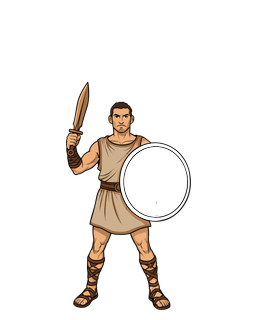
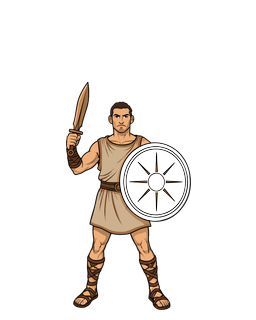
assets+web: accents CUITES par joueur — guerrier J1 rouge (retours Erik 20/09) — (1) import_svg : percement des détails sombres dans le calque accent (lum<140, convention painter — l'accent teinté au-dessus de la base ne masque plus les rayons ; G2 révisé : trou illégitime seulement sur champ clair 

Changed region(s): [[0.4688, 0.4375, 0.75, 0.6875], [0.6562, 0.4688, 0.7188, 0.5312], [0.5, 0.4688, 0.5625, 0.5312]]

diff --git a/apps/web/src/lib/render/textures.ts b/apps/web/src/lib/render/textures.ts
@@ -45,6 +45,10 @@ export interface GameTextures {
   /** Clé = id type d'unité des données JSON (unite_guerrier…) + variantes
    *  barbares `barbare_<type>` (Phase 7d, R-95). */
   units: Record<string, EntityTexture>;
+  /** Variantes CUITES par propriétaire (import_svg : couleurs d'accent cuites
+   *  dans le PNG, pas de calque accent à teinter) — clé `<type>@<owner>`
+   *  (ex. `guerrier@p1`). Décision Erik 20/09. */
+  cuites: Record<string, EntityTexture>;
   cities: { settlement: EntityTexture; capital: EntityTexture };
   /** R-96 (Phase 7d) : village barbare (tente/camp). */
   villageBarbare: EntityTexture;
@@ -603,6 +607,7 @@ export function createTextures(renderer: Renderer): GameTextures {
 
   return {
     tiles,
+    cuites: {},
     units: {
       ...units,
       // R-95 (Phase 7d) : variantes barbares — accent gris-brun au rendu
@@ -721,7 +726,7 @@ export async function loadTextures(renderer: Renderer): Promise<GameTextures> {
   const resourceIds = [...Object.keys(RESOURCES).sort(), RESOURCE_UNKNOWN];
   // Phase 7d (R-95) : variantes barbares (accent gris-brun au rendu).
   const barbareIds = ['guerrier', 'archer'];
-  const [tiles, unitesReelles, barbareUnits, settlement, capital, villageBarbare, hutte, artefactTextures, colonFondation, foodIcon, productionIcon, commerceIcon, goldIcon, scienceIcon, resourceIcons] = await Promise.all([
+  const [tiles, unitesReelles, barbareUnits, settlement, capital, villageBarbare, hutte, artefactTextures, colonFondation, guerrierJ1, foodIcon, productionIcon, commerceIcon, goldIcon, scienceIcon, resourceIcons] = await Promise.all([
     Promise.all(tileIds.map((id) => texOrFallback(TILE_ASSETS[id], fallback.tiles[id]).then((t) => [id, t] as const))),
     // PILE-AFFICHÉE (archer invisible) : chargement OPTIONNEL de l'art de
     // TOUS les types du moteur — un 404 par type sans planche, puis résolu
@@ -742,6 +747,9 @@ export async function loadTextures(renderer: Renderer): Promise<GameTextures> {
     entityOrFallback('hutte', fallback.hutte),
     Promise.all(ARTEFACT_IDS.map((id) => entityOrFallback(`artefact_${id}`, fallback.artefacts[id]!).then((t) => [id, t] as const))),
     optionalEntity('unite_colonFondation'),
+    // Variante CUITE Joueur 1 (décision Erik 20/09) : le guerrier importé
+    // porte son rouge cuit — rendu SANS teinte d'accent (GameCanvas).
+    optionalEntity('unite_guerrier_j1'),
     optionalIcon('icone_nourriture'),
     optionalIcon('icone_production'),
     optionalIcon('icone_commerce'),
@@ -766,9 +774,15 @@ export async function loadTextures(renderer: Renderer): Promise<GameTextures> {
     if (!unitsFinales[id]) unitsFinales[id] = unitsFinales.guerrier!;
   }
 
+  // Variantes cuites par propriétaire (cf. interface) : la clé dit quel
+  // (type, propriétaire) affiche le sprite cuit SANS teinte.
+  const cuites: Record<string, EntityTexture> = {};
+  if (guerrierJ1) cuites['guerrier@p1'] = guerrierJ1;
+
   return {
     tiles: Object.fromEntries(tiles) as Record<TerrainId, Texture>,
     units: { ...unitsFinales, ...Object.fromEntries(barbareUnits) },
+    cuites,
     cities: { settlement, capital },
     villageBarbare,
     hutte,

diff --git a/apps/web/src/lib/render/GameCanvas.svelte b/apps/web/src/lib/render/GameCanvas.svelte
@@ -754,17 +754,30 @@
         : textures!.units[type];
     if (!tex) return c; // type d'unité sans placeholder (ne devrait pas arriver en v1)
     const color = playerColor(owner);
-    const base = new Sprite(tex.base);
-    base.label = 'base';
-    base.anchor.set(0.5, 1);
-    base.scale.set(0.5);
-    base.y = 10;
-    const accent = new Sprite(tex.accent);
-    accent.label = 'accent';
-    accent.anchor.set(0.5, 1);
-    accent.scale.set(0.5);
-    accent.y = 10;
-    accent.tint = color;
+    // Variante CUITE par propriétaire (décision Erik 20/09 : ex. guerrier@p1,
+    // rouge cuit dans le PNG par import_svg) — sprite unique SANS teinte.
+    const cuite = textures!.cuites?.[`${type}@${owner}`];
+    let base: Sprite;
+    let accent: Sprite | null = null;
+    if (cuite) {
+      base = new Sprite(cuite.base);
+      base.label = 'base';
+      base.anchor.set(0.5, 1);
+      base.scale.set(0.5);
+      base.y = 10;
+    } else {
+      base = new Sprite(tex.base);
+      base.label = 'base';
+      base.anchor.set(0.5, 1);
+      base.scale.set(0.5);
+      base.y = 10;
+      accent = new Sprite(tex.accent);
+      accent.label = 'accent';
+      accent.anchor.set(0.5, 1);
+      accent.scale.set(0.5);
+      accent.y = 10;
+      accent.tint = color;
+    }
     const bg = new Sprite(textures!.px);
     bg.width = 80;
     bg.height = 10;
@@ -774,7 +787,9 @@
     fill.label = 'hpFill';
     fill.height = 10;
     fill.position.set(-38, -156);
-    c.addChild(base, accent, bg, fill);
+    c.addChild(base);
+    if (accent) c.addChild(accent);
+    c.addChild(bg, fill);
     // Écu de fortification (R-33) : petit bouclier bleu au-dessus du PV, caché par défaut.
     const shield = new Graphics();
     shield.label = 'fortify';

diff --git a/apps/web/src/pages/Atelier.svelte b/apps/web/src/pages/Atelier.svelte
@@ -420,14 +420,29 @@
     const { base, accent } = stemsDe(asset);
     baseCharge = `/art/${base}.png`;
     if (!accent) { accentsTintees = []; return; }
+    // Variantes CUITES par joueur (décision Erik 20/09 : import_svg cuit les
+    // couleurs dans le PNG) — prennent la main sur la teinte quand le PNG
+    // existe, sinon repli sur la teinte runtime.
+    const CUITES: Record<string, string> = { p1: '/art/unite_guerrier_j1.png' };
     untrack(() => {
-      Promise.all([chargerImg(`/art/${base}.png`), chargerImg(`/art/${accent}.png`)])
-        .then(([imgBase, imgAccent]) => {
-          accentsTintees = ACCENTS.map((a) => ({ nom: a.nom, url: composer(imgBase, imgAccent, a.couleur) }));
-        })
-        .catch(() => {
-          accentsTintees = [];
-        });
+      const imgs = Promise.all([chargerImg(`/art/${base}.png`), chargerImg(`/art/${accent}.png`)]);
+      Promise.all(
+        ACCENTS.map(async (a) => {
+          const cuite = base === 'unite_guerrier' ? CUITES[a.cle] : undefined;
+          if (cuite) {
+            try {
+              await chargerImg(cuite);
+              return { nom: `${a.nom} (cuit)`, url: cuite };
+            } catch {
+              // PNG cuit absent : repli sur la teinte runtime
+            }
+          }
+          const [imgBase, imgAccent] = await imgs;
+          return { nom: a.nom, url: composer(imgBase, imgAccent, a.couleur) };
+        }),
+      )
+        .then((vs) => { accentsTintees = vs; })
+        .catch(() => { accentsTintees = []; });
     });
   });
 

diff --git a/apps/web/src/lib/atelier/catalogue.ts b/apps/web/src/lib/atelier/catalogue.ts
@@ -212,6 +212,9 @@ function sprites2d(): AssetAtelier[] {
   // A/B : l'ancien sprite peintre du guerrier, conservé pour le verdict
   // d'Erik (fichiers unite_guerrier_avant*.png, issus du dernier generate.py).
   out.push(spriteAsset('unite_guerrier_avant', 'Guerrier (peintre, AVANT import — comparaison A/B)', `${SRC_GENERATEUR('unite_guerrier')} (référence A/B de l'import SVG) — textures.ts (units)`, true));
+  // Variante CUITE Joueur 1 (décision Erik 20/09 : couleurs d'accent cuites
+  // dans le SVG, pas de calque accent — import_svg.mjs profil guerrier-j1-cuit).
+  out.push(spriteAsset('unite_guerrier_j1', 'Guerrier — variante cuite Joueur 1 (rouge, accent intégré)', `assets-src/tools/import_svg.mjs (profil guerrier-j1-cuit) — import SVG Recraft`, false));
   // COLON-FONDATION : état « en train de fonder » du Colon (art d'Erik en
   // attente — PNG optionnel, badge provisoire au rendu tant qu'il manque).
   out.push(spriteAsset('unite_colonFondation', 'Colon « en train de fonder » (état, R-158)', `${SRC_GENERATEUR('render_entity')} — textures.ts (colonFondation)`, true));

diff --git a/apps/web/tests/atelier-catalogue.test.ts b/apps/web/tests/atelier-catalogue.test.ts
@@ -38,7 +38,7 @@ describe('atelier — catalogue L0', () => {
     for (const a of CATALOGUE) {
       expect(a.id.length).toBeGreaterThan(0);
       expect(a.nom.length).toBeGreaterThan(0);
-      expect(a.source).toMatch(/visuel3d\.json|packages\/rules|generate\.py|code —/);
+      expect(a.source).toMatch(/visuel3d\.json|packages\/rules|generate\.py|import_svg\.mjs|code —/);
     }
   });
 

diff --git a/apps/web/src/lib/render3d/optionB.ts b/apps/web/src/lib/render3d/optionB.ts
@@ -69,6 +69,7 @@ function texturesDeSecours(): GameTextures {
   const entite = { base: corpsUnit, accent: accentUnit };
   return {
     tiles: {} as GameTextures['tiles'],
+    cuites: {},
     units: { guerrier: entite },
     cities: { settlement: { base: corpsVille, accent: accentVille }, capital: { base: corpsVille, accent: accentVille } },
     villageBarbare: entite,

diff --git a/REPORT-IMPORT-SVG.md b/REPORT-IMPORT-SVG.md
@@ -66,6 +66,38 @@ Note : le handoff disait « orange J2 » — la palette décidée le 13/09 (text
 4. Dans `generate.py`, commenter la ligne correspondante de `entities` (le painter reste) ; pour l'A/B, extraire l'ancien PNG du HEAD git sous `*_avant` et ajouter la fiche dans `catalogue.ts` (constante `IMPORTES`) ;
 5. `pnpm sync-art` (apps/web) puis `pnpm test` — l'asset apparaît dans l'atelier et en partie.
 
-## 7. État
+## 7. Correctif « détails dans la zone d'accent » (retour d'Erik du 20/09)
 
-Validé localement, **en attente du verdict d'Erik** (A/B atelier : `unite_guerrier` vs `unite_guerrier_avant`). Commit/push sur demande explicite. Serveurs dev arrêtés.
+**Constat** : en jeu, l'accent teinté (composé AU-DESSUS de la base — convention painter, `GameCanvas.buildUnitContainer` et atelier `composer()`) recouvrait les détails sombres de la zone d'accent : le bouclier du guerrier apparaissait comme un disque plein, rayons invisibles.
+
+**Pourquoi pas l'inversion de l'ordre de composition** : l'accent SOUS la base effacerait la couleur joueur de **toutes les unités peintre** (leurs bases sont opaques dans la zone d'accent — le painter pose ses détails en gris DANS le calque accent, pas dans la base). Le correctif est donc fait là où réside l'écart : **le pipeline**.
+
+**Correction (import_svg.mjs)** — convention painter appliquée au SVG : les détails sombres de la zone d'accent (luminance < `SEUIL_ENCRE` = 140, le seuil du painter, mesurée sur le rendu complet à haute résolution) sont **PERCÉS en transparence dans le calque accent**. À l'écran, la teinte s'applique au champ du bouclier tandis que les rayons de la **base** restent visibles à travers — sous toutes les teintes, sans toucher au moteur ni à l'atelier. Garde-fou : refus si aucun détail n'est percé (SVG dont les détails seraient hors zone blanche → ils seraient masqués par la teinte).
+
+**G2 révisé** (« couverture de l'accent ») : un pixel transparent de l'accent n'est légitime que hors silhouette ou sur un pixel de base pas franchement clair (lum < `SEUIL_CLAIR` = 210 — les franges d'AA détail↔blanc plafonnent à ~200 mesurés ; le champ nu est ~250). Un trou sur le champ blanc = zone blanche manquante = refus. Tests : 10/10 (trou sur champ clair rejeté, détails percés acceptés, percement vérifié sur l'import).
+
+**Lisibilité au rendu réel** (sprite 256×320 affiché à 128×160, échelle 0.5 — captures `partie-guerrier-details-visibles.png` et `partie-guerrier-zoom-details.png`) : l'étoile à 8 rayons reste discernable à l'échelle carte (~30 px de bouclier) et nette en zoom/atelier (`atelier-guerrier-accents-perces.png`). Si Erik la juge trop fine à l'échelle 64 px, deux leviers : (a) épaissir les rayons dans le SVG source Recraft (préféré — c'est le trait d'Erik), (b) ajout d'un paramètre de dilatation du percement dans le pipeline.
+
+**Vérifié** : tests convertisseur 10/10, web 312/312, `generate.py --check` conforme pour le guerrier (restent colon/chevalier, préexistants). Non committé — attente du verdict d'Erik.
+
+## 8. Variante cuite Joueur 1 (décision Erik 20/09 — « on oublie l'accent actuel »)
+
+Nouveau mode du pipeline : `profil.remplacements` = { couleurSource → couleurCible } — remplacement **dans le texte SVG** (attributs `fill` et `stop-color`, insensible à la casse), rendu **sans calque accent** : l'asset porte sa couleur, le moteur n'a plus à teinter. Sortie : `unite_guerrier_j1.png` (256×320, sans `_accent`).
+
+Profil `guerrier-j1-cuit`, couleurs demandées par Erik :
+
+| Source | Cible | Occurrences dans le SVG |
+|---|---|---|
+| `#FFFFFF` | `#B84239` | **19** (champ du bouclier) |
+| `#FEFEFE` | `#D55B52` | **0** — absent du fichier |
+| `#8C8C8C` | `#8A3029` | **0** — absent du fichier |
+
+Le SVG ne contient pas `FEFEFE` ni `8C8C8C` en littéraux ; les quasi-blancs réels sont les **stops du dégradé 5** (`#FAF9F9 → #FEFEFD`, l'ombrage du bouclier), mappés vers `#D55B52`. Le rendu pixel ne montre pas de gris `8C8C8C` (la rampe d'AA s'arrête à `#C8C8C8`, ce sont des franges d'anti-aliasing, pas des aplats). Si Erik veut d'autres correspondances, il suffit d'ajouter des paires au profil (une couleur source absente ne bloque pas — signalée ×0 ; un total nul est refusé).
+
+**Périmètre** : la variante est visible dans l'atelier (fiche « Guerrier — variante cuite Joueur 1 », sans accent) — **ET le moteur l'utilise** : câblage fait le 20/09 (retour d'Erik « ce sont encore les anciennes couleurs ») — `textures.ts` : chargement optionnel `unite_guerrier_j1` + map `GameTextures.cuites` (clé `<type>@<owner>`) ; `GameCanvas.buildUnitContainer` : variante cuite = sprite unique SANS teinte d'accent ; atelier : la variante « accent Joueur 1 » de la fiche `unite_guerrier` affiche le PNG cuit (« Joueur 1 (cuit) »), repli teinte runtime si PNG absent. J2 et barbare inchangés (teinte runtime) — autres couleurs à definir avec Erik. Vérifié en partie solo : le guerrier J1 porte le bouclier rouge cuit (`partie-guerrier-j1-cuit-en-jeu.png`).
+
+**Vérifié** : tests convertisseur 11/11 (nouveau test : les trois couleurs cibles présentes à l'identique, pas de `_accent`), web 312/312, svelte-check 0 erreur. Captures `atelier-guerrier-j1-cuit.png` (cuite) et `atelier-guerrier-j1-teinte-runtime.png` (teinte runtime, pour comparaison). Non committé.
+
+## 9. État
+
+**Accepté par Erik le 20/09** (« tout est parfait ») : percement des détails d'accent, variante cuite Joueur 1 et câblage moteur. Commité et poussé sur sa demande.
